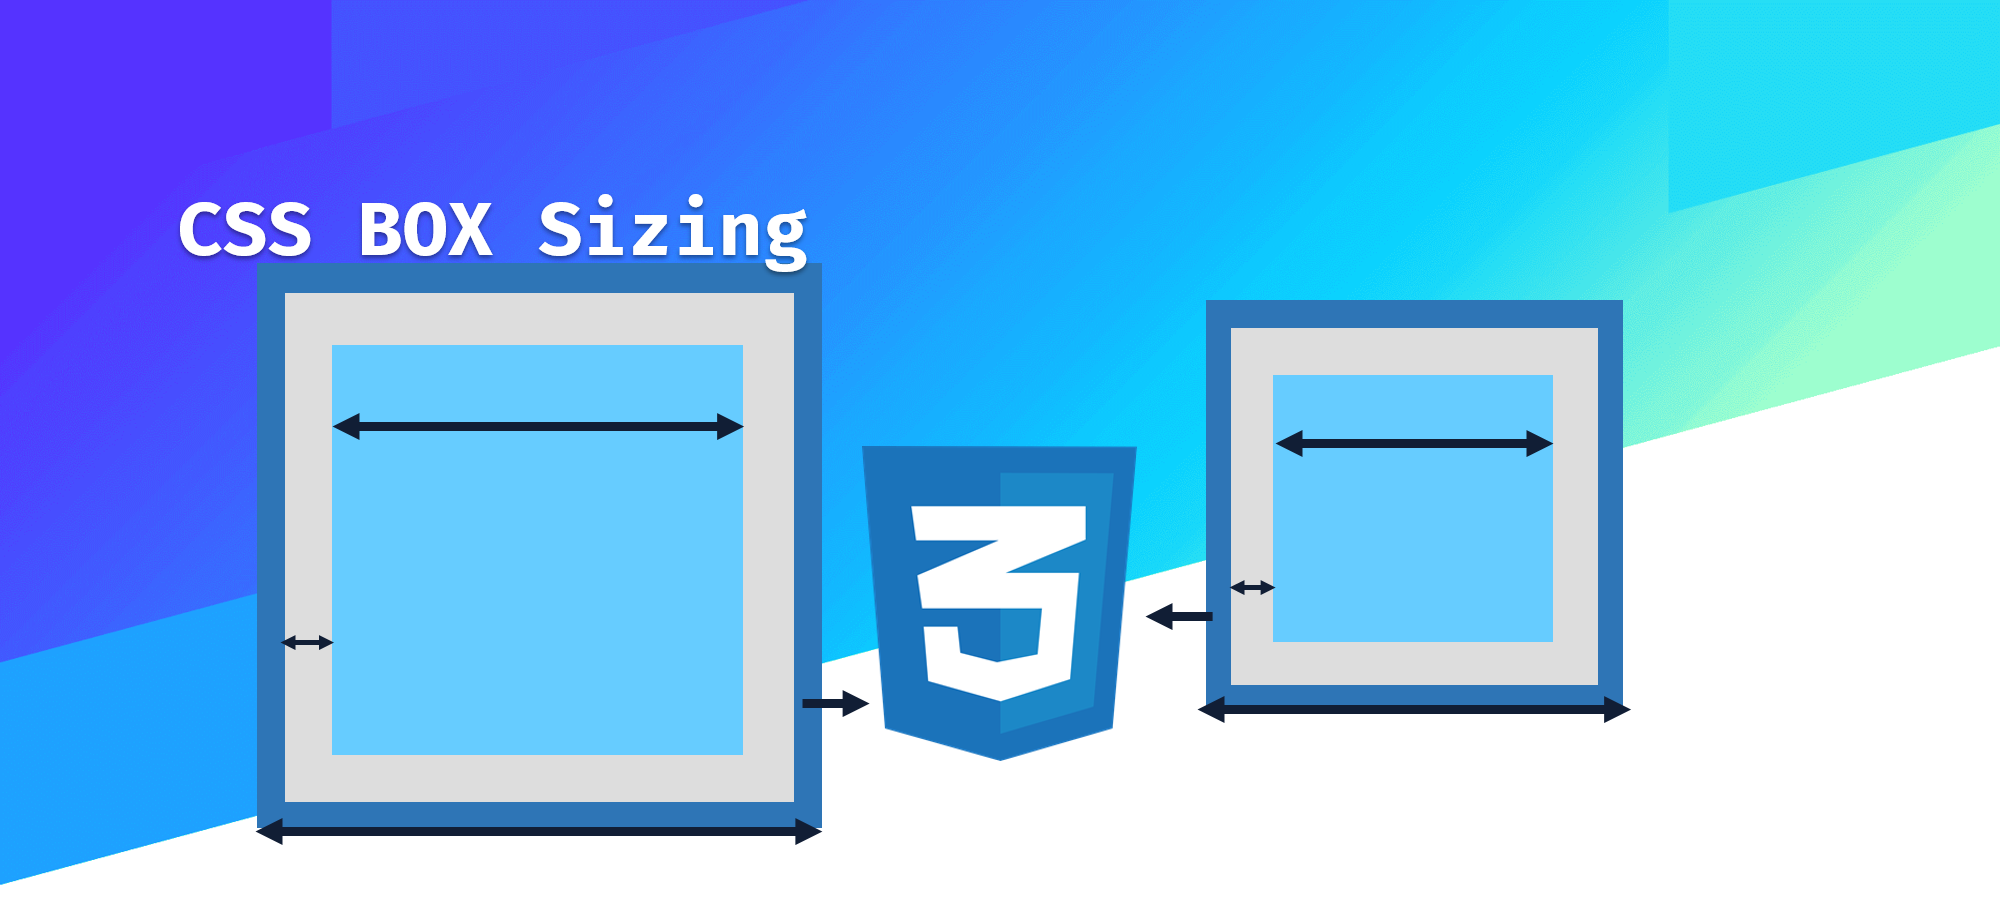
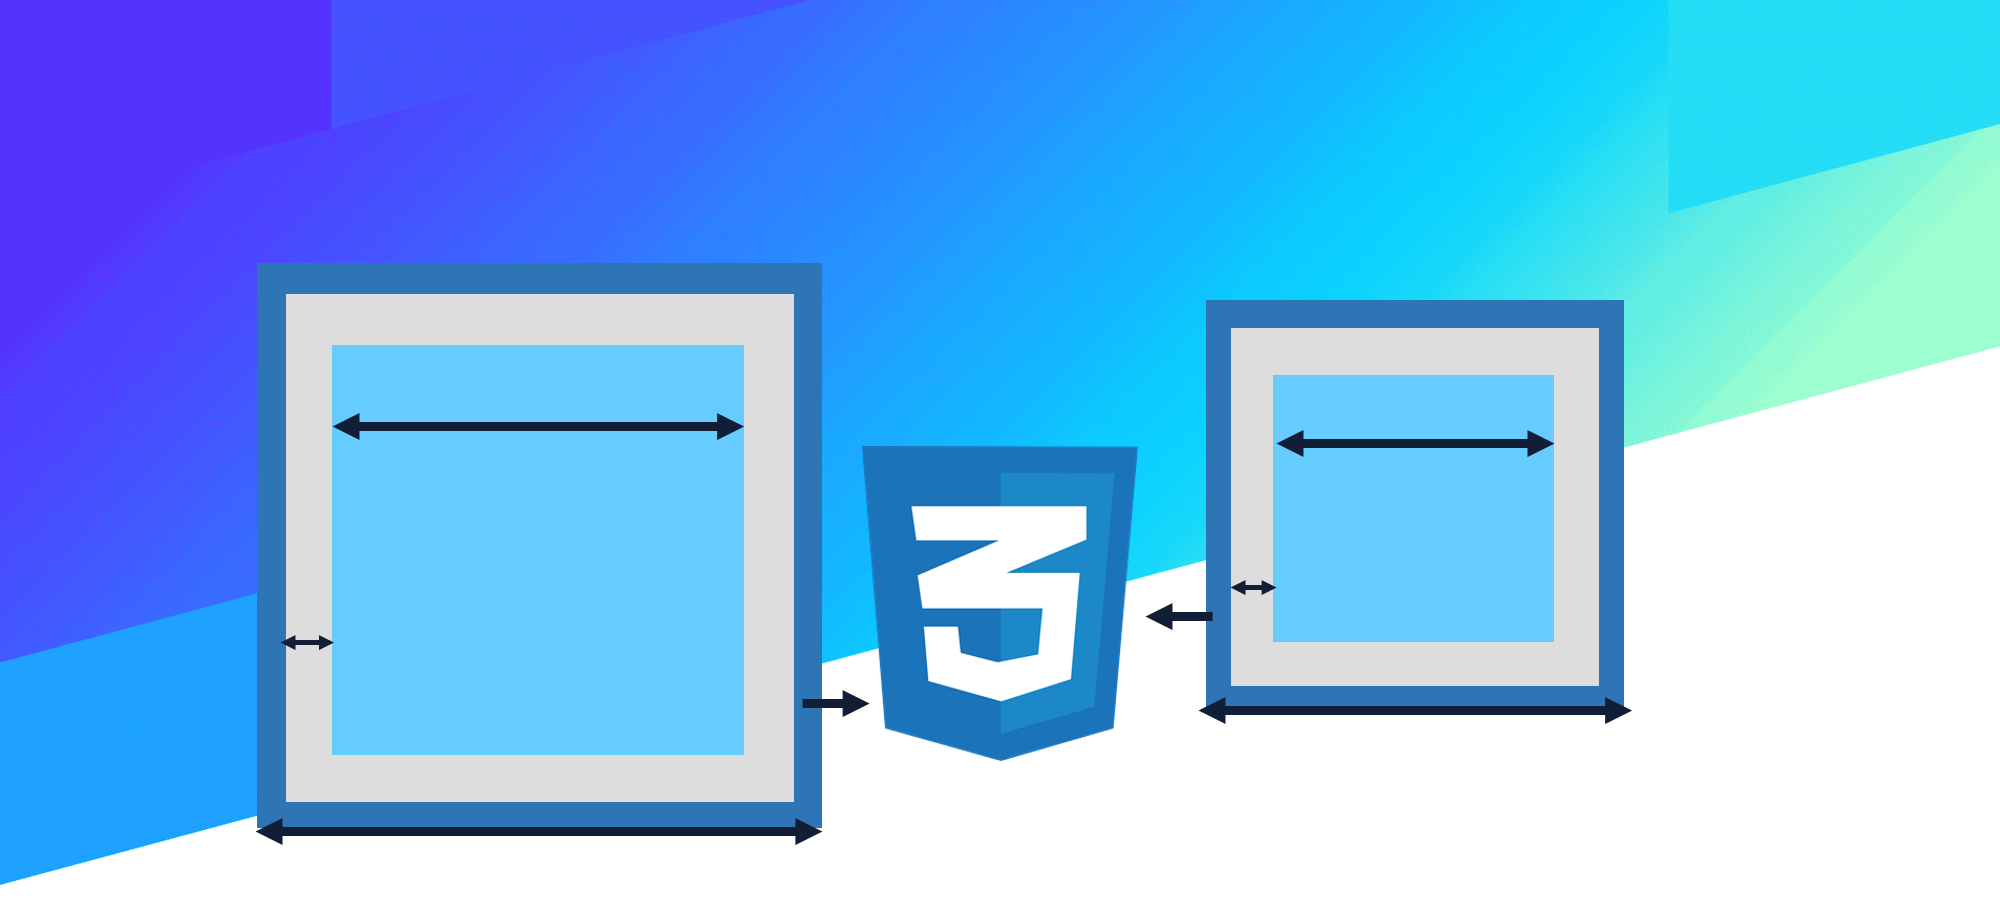
up

Changed region(s): [[0.062, 0.2149, 0.403, 0.307]]

diff --git a/_layouts/post.html b/_layouts/post.html
@@ -14,9 +14,12 @@ layout: default
       <div class="row">
         <div class="col-lg-8 col-md-10 mx-auto">
           <div class="post-heading">
-            {% if page.subtitle %}
-            <h2 class="subheading px-3 font-italic">{{ page.subtitle }}</h2>
+            {% if page.title %}
+            <h1 style='text-shadow: 4px 0 20px {{ page.color }}'>{{ page.title }}</h1>
             {% endif %}
+<!--             {% if page.subtitle %}
+            <h2 class="subheading px-3 font-italic">{{ page.subtitle }}</h2>
+            {% endif %} -->
            <!--  <span class="meta">Publicado por
               <a href="#">{% if page.author %}{{ page.author }}{% else %}{{ site.author }}{% endif %}</a>
               el {{ page.date }} &middot; {% include read_time.html

diff --git a/javascript/string/buscar-y-remplazar.md b/javascript/string/buscar-y-remplazar.md
@@ -1,0 +1,131 @@
+---
+layout: post
+---
+
+Una operación muy frecuente y habitual en javascript, es la de **comprobar la existencia** de un texto, **buscar** o incluso **reemplazar** por otro texto. Dependiendo del caso, hará falta uno u otro, por lo que lo primero que debes tener claro es saber cuál necesitas. Piensa que, aunque la sintaxis o el uso de uno de ellos te resulte más sencillo que otro, hay tareas que pueden tener más relevancia o no realizar. Por ejemplo:  
+
+- **Comprobación**: La más ligera. Sólo comprueba si existe un fragmento de texto.
+- **Búsqueda**: Busca un fragmento de texto, devolviendo información del texto encontrado (*posición*, *texto...*).
+- **Remplazo**: Realiza una búsqueda de un texto y ademásun reemplazo. (*Suele ser más costoso*).
+
+
+### Comprobación en textos
+
+Los siguientes métodos se utilizan para realizar algún tipo de **comprobación** y saber si un fragmento de texto **está incluído** en un <span class="badge badge-warning">string</span>:
+
+
+<table class="table table-striped table-borderless shadow-sm border">
+	<thead class="thead-js">
+		<th>Método</th>
+		<th>Descripción</th>
+	</thead>
+	<tbody>
+		<tr>
+			<th><span class="badge badge-danger">boolean</span><code>.startsWith(text, from)</code></th>
+			<td>Comprueba si el texto comienza por <strong>text</strong>.</td>
+		</tr>
+		<tr>
+			<th><span class="badge badge-danger">boolean</span><code>.endsWith(text, to)</code></th>
+			<td>Comprueba si el texto termina por <strong>text</strong>.</td>
+		</tr>
+		<tr>
+			<th><span class="badge badge-danger">boolean</span><code>.includes(text, from)</code></th>
+			<td>Comprueba si el texto contiene el subtexto <strong>text</strong>.</td>
+		</tr>
+	</tbody>
+</table>
+
+>Observa que en cada método tienes un **segundo parámetro opcional**, donde se puede indicar desde donde quieres empezar a comprobar (en el caso de **from**), o hasta donde quieres comprobar (en el caso de **to**).
+
+Veamos unos ejemplos:  
+
+```js
+const text = "Marco";
+
+console.log(text.startsWith("M"));     // true  ('Marco' empieza por 'M')
+console.log(text.startsWith("a", 1));  // true  ('arco' empieza por 'a')
+console.log(text.endsWith("o"));       // true ('Marco' acaba en 'o')
+console.log(text.endsWith("n", 3));    // false  ('Mar' no acaba en 'n')
+console.log(text.includes("ar"));      // true  ('Marco' incluye 'ar')
+console.log(text.includes("M", 1));    // false ('arco' no incluye 'M')
+```
+
+### Búsqueda de cadenas de textos
+
+Si necesitamos realiza una **búsqueda de un texto** (*que muchas veces no tenemos claro como es*) y queremos obtener iformación como la posición o la búsquedas encontradas, y los métodos del tema anterior de <a href="posiciones-substrings">posiciones y substrings</a> no nos sirven (*o se queda corto*), podemos utilizar alguno de los siguientes:
+
+
+
+<table class="table table-striped table-borderless shadow-sm border">
+	<thead class="thead-js">
+		<th>Método</th>
+		<th>Descripción</th>
+	</thead>
+	<tbody>
+		<tr>
+			<th><span class="badge badge-info">number</span><code>.search(regexp)</code></th>
+			<td>Busca un patrón que encaja con <strong>regexp</strong> y devuelve un <span class="badge badge-info">number</span> correspondiente a la posición encontrada</td>
+		</tr>
+		<tr>
+			<th><span class="badge badge-success">array</span><code>.match(regexp)</code></th>
+			<td>Indéntico al anterio, pero devuelve las coincidencias encontras en <strong>regexp</strong>.</td>
+		</tr>
+		<tr>
+			<th><span class="badge badge-success">array</span><code>.matchAll(regexp)</code></th>
+			<td>Idéntico al anterior, pero devuelve un iterador para (*valga la redundancia*) iterar por cada coincidencia.</td>
+		</tr>
+	</tbody>
+</table>
+
+Estas búsquedas toman por parámetro **expresiones regulares**, por lo que suelen ser más potente y flexibles que buscar sólo por texto. La diferencia fundamental entre ellas es la siguiente:  
+
+- El método **`.search(regexp)`** devuelve la posición de la primera ocurrencia y **-1** si no se encuentra.
+- El método **`.match()`** devuelve un <span class="badge badge-success">array</span> con las coincidencias encontradas y **null** si no se encuentran.
+- El método **`.matchAll()`** devuelve un iterador para poder recorrer las coincidencias encontradas.
+
+
+Veamos algunos ejemplos:  
+
+
+```js
+const text = "El gato, el perro y el pato.";
+const regexp = /.a.o/g;
+
+console.log(text.search(regexp));   
+// 3, porque la primera coincidencia ocurre en la posición 3 (gato)
+console.log(text.match(regexp));    
+// ["gato", "pato"], las dos coincidencias encontradas
+```
+
+Por otro lado, el método **`.matchAll()`** es un poco más avanzado, y permite realizar la misma acción que **`.match()`** pero devolviendo un iterador, lo que nos permite recorrerlo en un bucle:
+
+
+```js
+const text = "El gato, el perro y el pato.";
+const regexp = /.a.o/g;
+
+const iterator = text.matchAll(regexp);
+for (let ocurrence of iterator) {
+  console.log(ocurrence);
+}
+
+// ['gato', index: 3, input: 'El gato, el perro y el pato.', groups: undefined]
+// ['pato', index: 23, input: 'El gato, el perro y el pato.', groups: undefined]
+```
+
+También es posible utilizar **`.matchAll()`** **desestructurando el resultado**, lo que nos permitirá acceder a la información de una forma más directa: 
+
+
+```js
+const text = "El gato, el perro y el pato.";
+const regexp = /.a.o/g;
+const results = [...text.matchAll(regexp)];    // ["gato", "pato"]
+
+console.log(results.length)     // 2
+console.log(results[0].index)   // 3
+console.log(results[1].index)   // 23
+```
+
+### Remplazar cadenas de texto
+
+Si lo que necesitamos es remplazar un texto, tenemos a nuestra disposición

diff --git a/web-components/shadow-dom/que-es-shadow-dom.md b/web-components/shadow-dom/que-es-shadow-dom.md
@@ -1,0 +1,64 @@
+---
+layout: 'post'
+---
+
+Sin duda, uno de los conceptos más interesantes de **WebComponents** (*y también de los más complejos*) es el **Shadow DOM** (*DOM de sombra*). Para comprenderlo bien, primero debemos tener claro que el **DOM** es la estructura de elementos que tiene una página en forma de árbol, donde se puede ver facilmente los descendientes (*hijos*) o contenedores (*padres*)de un elemento.
+
+
+El navegador, al cargar una página, genera esta estructura de árbol, a la que generalmente llamamos **DOM**. Cada vez que ocurre un cambio en los elementos de una página, el navegador actualiza esta estructura para reflejarlos.
+
+
+### ¿Qué es eso de SHADOW DOM? ![psyduck](https://raw.githubusercontent.com/PokeAPI/sprites/master/sprites/pokemon/versions/generation-v/black-white/animated/54.gif)
+
+El concepto de **Shadow DOM** nace de la necesidad de tener una forma de encapsular elementos y mantenerlos aislados del resto de la pagina, creando algo así como un **concepto local**, en contraposición al **concepto global** con el que se solía trabajar en los navegadores.  
+
+Quizás, la forma más fácil de entender el concepto de **Shadow DOM**, es haciendo una analogía precisamente a lo que su propio nombre indica, **una sombre de un elemento**:
+
+![shadow dom](https://lenguajejs.com/webcomponents/shadow-dom/que-es-shadow-dom/shadow-dom.png)
+
+Imaginemos que tenemos un árbol **DOM** del documento de la página en la que nos encontramos. Uno de esos nodos del árbol puede tener un **Shadow DOM** (*una sombra*) en la cuál puede residir otro árbol **DOM**, que realmente no forma parte del **DOM** principal de la página.
+
+
+Como veremos en breve, entre otras cosas, esta característica nos permitiría algo muy interesante con **CSS**, **aislar los estilos** de modo que no afecten a los elementos que están fuera del **Shadow DOM**, ni tampoco el **CSS** de fuera afecte a los elementos del **Shadow DOM**.
+
+
+>**Nota**: Aunque se suele asociar a WebComponents, realmente el **Shadow DOM** es una característica independiente que se puede aplicar a un elemento HTML normal, sin necesidad de que sea un componente.
+
+### ¿Qué es el Virtual DOM? ![psyduck](https://raw.githubusercontent.com/PokeAPI/sprites/master/sprites/pokemon/versions/generation-v/black-white/animated/54.gif)
+
+Aunque tiene cierta relación, el concepto de **Virtual DOM** (*o VDOM*) no es una alternativa directa de **Shadow DOM**, pero muchas veces se suelen asociar, ya que debido a sus nombres se suele intuir que son cosas similares o alternativas.
+
+Durante la aparición de los diferentes **frameworks** del ecosistema javascript, estos idearon un concepto denominado **Virtual DOM**, una copia en memoria del **DOM** de la página, donde se gestionarían directamente los cambios del mismo, para traducirlos posteriormente al **DOM** real del documento, con el objetivo de acelerar y optimizar los cambios del **DOM** de la página.
+
+Por ejemplo, la popular librería <a href="https://es.react.dev/" target="_blank">React</a> introducía el concepto de **Virtual DOM** para detectar los cambios (*diferencias entre árboles*), actualizar los nodos afectados (*cambios y descendientes a quienes pueden afectar*) y posteriormente, actualizar en el **DOM** real, consiguiendo dos cosas principales, **velocidad** y abstraer de estos cambios para hacerlos de forma automática y menos tediosa:
+
+![virtual dom](https://lenguajejs.com/webcomponents/shadow-dom/que-es-shadow-dom/virtual-dom.png)
+
+
+### ¿Cómo crear un Shadow DOM?
+
+Por defecto, los elementos **HTML** no tienen **Shadow DOM**. Pero si queremos crear uno y adjuntarlo a un elemento **HTML**, no tenemos más que utilizar el método **`.attachShadow()`** sobre el elemento donde queremos crear el **Shadow DOM**.
+
+
+<table class="table">
+	<thead class="thead-js shadow">
+		<th>Método</th>
+		<th>Descripción</th>
+	</thead>
+	<tbody>
+		<tr>
+			<th><span class="badge text-light" style="background: #638">shadowroot</span><br><code>element.attachShadow(</code><span class="badge badge-primary">object</span> options<code>)</code></th>
+			<td>Crea y adjunta un <strong>Shadow DOM</strong> en un elemento.</td>
+		</tr>
+	</tbody>
+</table>
+
+En lo que vemos ejemplos, explicaré el parámetro obligatorio **options** y algunas características más, sin embargo para empezar, con este método podríamos crear un **Shadow DOM** utilizando el siguiente fragmento de código:  
+
+
+```js
+const div = document.createElement("div");
+const shadow = div.attachShadow({ mode: "open" });
+```
+
+En la primera línea creamos un elemento <span class="tag">div</span> desde javascript. También podríamos seleccionar un elemento existente mediante por ejemplo **`querySelector()`**. En este elemento es donde vamos a crear un **DOM** particularmente llamado **Shadow DOM**.

diff --git a/css/reglas-css/la-regla-import.md b/css/reglas-css/la-regla-import.md
@@ -1,5 +1,6 @@
 ---
 layout: post
+background: "/img/css-regla-import-banner.png"
 ---
 
 
@@ -27,8 +28,39 @@ La forma de usar la regla **`@import`** es la siguiente:
           <td>Importamos una hoja de estilos CSS sólo si el navegador soporta la condición.</td>
         </tr>
         <tr>
-          <th>margin-bottom</th>
-          <td><strong>auto</strong> | <span class="badge badge-info">size</span></td>
+          <th><code>@import</code> <span class="badge badge-secondary">url</span> <code>layer(</code><em>nombre</em><code>)</code></th>
+          <td>Importamos una hoja de estilos CSS y la colocamos en la capa <em>nombre</em>.</td>
+        </tr>
+         <tr>
+          <th><code>@import</code> <span class="badge badge-secondary">url</span> <code>layer()</code></th>
+          <td>Importamos una hoja de estilos CSS y la colocamos en la capa anónima.</td>
         </tr>
   </tbody>
 </table>
+
+Un detalle **importante** es que hay que tener en cuenta que la regla **`@import`** se evalua en el navegador a la hora de cargar la página, por lo que cada regla **`@import`** equivalente a una petición al servidor de un archivo **.css**.
+
+>Esto, tradicionalmente, se suponía un problema, ya que en efectos de rendimiento podría ser mucho mejor incluir todo el código CSS en un solo archivo para reducir el número de peticiones. Sin embargo, actualmente, en páginas que funcionen bajo el protocolo **HTTP/2** o superior, podría no ser tan relevante. Preprocesadores como **Sass** (*o similares*) tienen mecanismos para realizar **imports** anticipados y generar un sólo archivo con todo el código **CSS** para que el navegador realice menos peticiones.
+
+### Formato de @import
+
+En principio, existen dos formas de cargar archivos externos mediante la regla **`@import`**, utilizando la función **url()** o indicando simplemente un <span class="badge badge-warning">string</span> con el archivo o dirección URL.  
+
+Como se puede ver a continuación, se puede utilizar tantos los nombres de los **archivos**, como **rutas relativas** o **absolutas**:  
+
+
+```css
+@import url("menu.css");                 /* Archivo en la misma ruta */
+@import url("menu/sidebar.css");         /* Ruta relativa, dentro de menu/ */
+@import "https://sitioweb/index.css";    /* Ruta absoluta, URL completa */
+```
+
+### Import con media queries
+
+Observemos en el siguiente caso que podemos indicar una **media query**, para que ese archivo **.css** se importe sólo en el caso que se cumpla:
+
+
+
+
+
+

diff --git a/css/modelo-de-cajas/propiedad-box-sizing.md b/css/modelo-de-cajas/propiedad-box-sizing.md
@@ -1,5 +1,6 @@
 ---
 layout: post
+color: "#3B63DB"
 background: "/img/css-box-sizing-banner.png"
 title: Propiedad box-sizing
 previous:
@@ -13,7 +14,7 @@ next:
 
 ### El tamaño de las cajas
 
-¨Por defecto, el **modelo de cajas** de CSS siguen un esquema donde al dar un tamaño a un elemento, concretamente se le da tamaño a su contenido, de modo que si además le añadimos un borde (*border*) y/o un relleno (*padding*), se sumará al tamaño indicado previamente.
+Por defecto, el **modelo de cajas** de CSS siguen un esquema donde al dar un tamaño a un elemento, concretamente se le da tamaño a su contenido, de modo que si además le añadimos un borde (*border*) y/o un relleno (*padding*), se sumará al tamaño indicado previamente.
 
 Esto puede resultar algo poco intuitivo, ya que un elemento de tamaño **width: 200px**, con un **border: 15px** y un **padding: 20px**, tendría en realidad un tamaño total de **270px** (*15px + 15px de border izquierdo y derecho, 20px + 20px de relleno izquierdo y derecho y los 200px del contenido*). Tener que realizar estos cálculos, puede resultar complejo y poco predecible, especialmente en situaciones donde estamos muy justos de espacio.
 

diff --git a/css/modelo-de-cajas/margenes-y-rellenos.md b/css/modelo-de-cajas/margenes-y-rellenos.md
@@ -1,7 +1,11 @@
 ---
 layout: post
-background: "/img/css-box-sizing-banner.png"
+color: "#3B63DB"
+background: "/img/css-margin-padding.png"
 title: Márgenes y rellenos
+previous:
+  url: 'propiedad-box-sizing'
+  title: 'CSS Propiedad box sizing'
 ---
 
 
